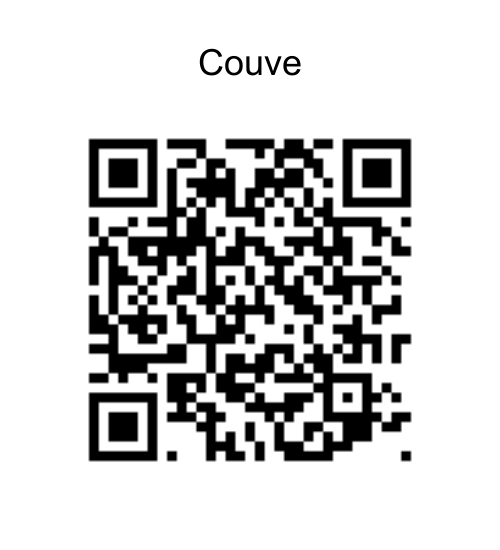
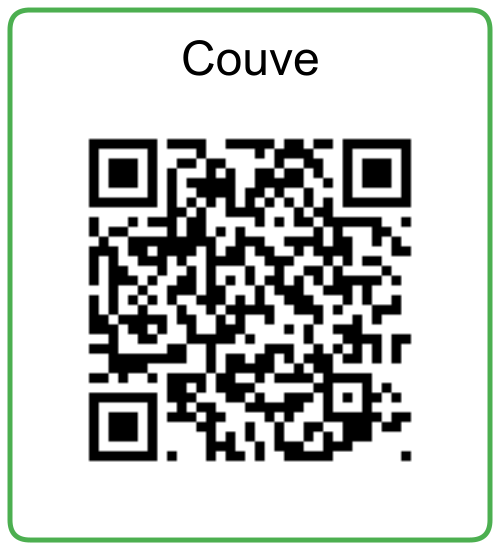
Ajust images qr-codes

Changed region(s): [[0.0, 0.0, 0.99, 0.9891], [0.36, 0.0618, 0.66, 0.1545]]

diff --git a/.history/public/js/gen-qrcodes_20241111234307.js b/.history/public/js/gen-qrcodes_20241111234307.js
@@ -34,7 +34,7 @@ function drawRoundedRect(ctx, x, y, width, height, radius) {
 }
 
 // Função para gerar a imagem com texto e QR Code
-const generateQRCodeWithTextAndFrame = async (plant) => {
+const generateQRCodeWithText = async (plant) => {
   const canvas = createCanvas(500, 550); // Ajuste o tamanho conforme necessário
   const ctx = canvas.getContext('2d');
 
@@ -42,13 +42,8 @@ const generateQRCodeWithTextAndFrame = async (plant) => {
   ctx.fillStyle = 'white';
   ctx.fillRect(0, 0, canvas.width, canvas.height);
 
-  // Moldura com cantos arredondados
-  ctx.strokeStyle = '#4CAF50'; // Cor da moldura
-  ctx.lineWidth = 5;
-  drawRoundedRect(ctx, 10, 10, canvas.width - 20, canvas.height - 20, 20);
-
   // Adiciona o nome da planta
-  ctx.font = '48px Arial';
+  ctx.font = '36px Arial';
   ctx.fillStyle = 'black';
   ctx.textAlign = 'center';
   ctx.fillText(plant.name, canvas.width / 2, 75);
@@ -69,7 +64,7 @@ const generateQRCodeWithTextAndFrame = async (plant) => {
 
 // Gera QR codes para todas as plantas
 plants.forEach(plant => {
-  generateQRCodeWithTextAndFrame(plant).catch(err => {
+  generateQRCodeWithText(plant).catch(err => {
     console.error(`Erro ao gerar QR Code para ${plant.name}:`, err);
   });
 });

diff --git a/.history/public/js/gen-qrcodes_20241111234346.js b/.history/public/js/gen-qrcodes_20241111234346.js
@@ -34,7 +34,7 @@ function drawRoundedRect(ctx, x, y, width, height, radius) {
 }
 
 // Função para gerar a imagem com texto e QR Code
-const generateQRCodeWithTextAndFrame = async (plant) => {
+const generateQRCodeWithText = async (plant) => {
   const canvas = createCanvas(500, 550); // Ajuste o tamanho conforme necessário
   const ctx = canvas.getContext('2d');
 
@@ -48,7 +48,7 @@ const generateQRCodeWithTextAndFrame = async (plant) => {
   drawRoundedRect(ctx, 10, 10, canvas.width - 20, canvas.height - 20, 20);
 
   // Adiciona o nome da planta
-  ctx.font = '48px Arial';
+  ctx.font = '36px Arial';
   ctx.fillStyle = 'black';
   ctx.textAlign = 'center';
   ctx.fillText(plant.name, canvas.width / 2, 75);
@@ -69,7 +69,7 @@ const generateQRCodeWithTextAndFrame = async (plant) => {
 
 // Gera QR codes para todas as plantas
 plants.forEach(plant => {
-  generateQRCodeWithTextAndFrame(plant).catch(err => {
+  generateQRCodeWithText(plant).catch(err => {
     console.error(`Erro ao gerar QR Code para ${plant.name}:`, err);
   });
 });

diff --git a/.history/public/js/gen-qrcodes_20241111234422.js b/.history/public/js/gen-qrcodes_20241111234422.js
@@ -48,7 +48,7 @@ const generateQRCodeWithTextAndFrame = async (plant) => {
   drawRoundedRect(ctx, 10, 10, canvas.width - 20, canvas.height - 20, 20);
 
   // Adiciona o nome da planta
-  ctx.font = '48px Arial';
+  ctx.font = '36px Arial';
   ctx.fillStyle = 'black';
   ctx.textAlign = 'center';
   ctx.fillText(plant.name, canvas.width / 2, 75);
@@ -69,7 +69,7 @@ const generateQRCodeWithTextAndFrame = async (plant) => {
 
 // Gera QR codes para todas as plantas
 plants.forEach(plant => {
-  generateQRCodeWithTextAndFrame(plant).catch(err => {
+  generateQRCodeWithText(plant).catch(err => {
     console.error(`Erro ao gerar QR Code para ${plant.name}:`, err);
   });
 });

diff --git a/.history/public/js/gen-qrcodes_20241111234427.js b/.history/public/js/gen-qrcodes_20241111234427.js
@@ -48,7 +48,7 @@ const generateQRCodeWithTextAndFrame = async (plant) => {
   drawRoundedRect(ctx, 10, 10, canvas.width - 20, canvas.height - 20, 20);
 
   // Adiciona o nome da planta
-  ctx.font = '48px Arial';
+  ctx.font = '36px Arial';
   ctx.fillStyle = 'black';
   ctx.textAlign = 'center';
   ctx.fillText(plant.name, canvas.width / 2, 75);
